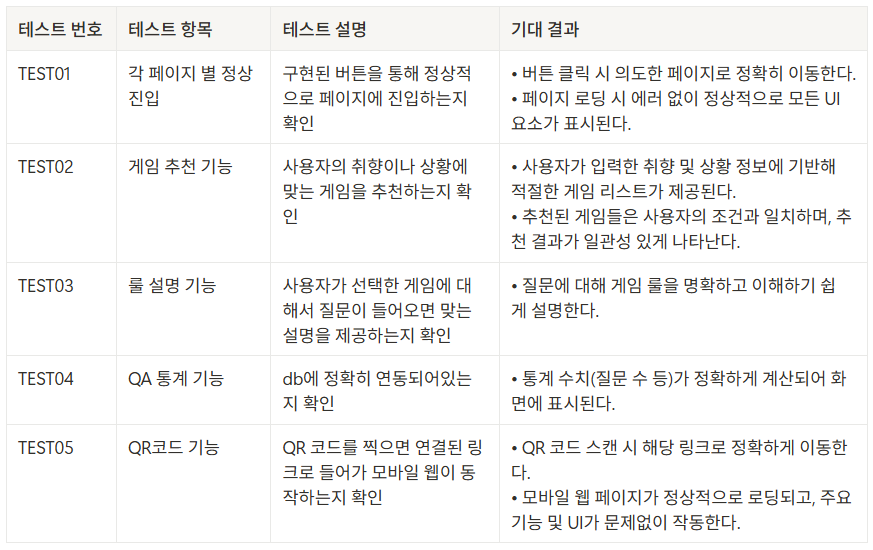
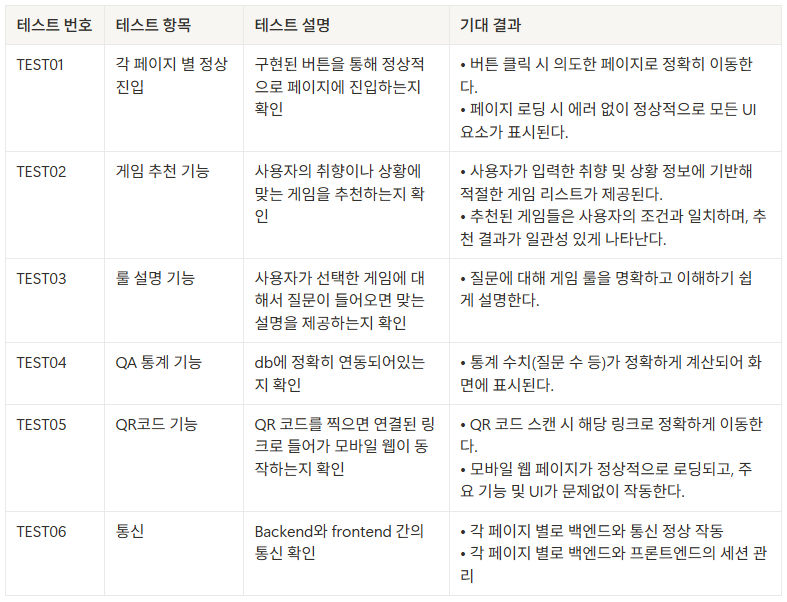
update README.md 테스트 계획 및 결과 보고서

diff --git a/README.md b/README.md
@@ -140,8 +140,11 @@
 
 ## 8. 테스트 계획 및 결과 보고서
 
-### 📖테스트 계획
+### 📖테스트 계획서
 ![](image/test_preparing.png)
+
+### 📖테스트 결과 보고서
+![](image/test_result.png)
 
 ## 9. 수행결과 (테스트/시연 페이지)
 - TEST01
